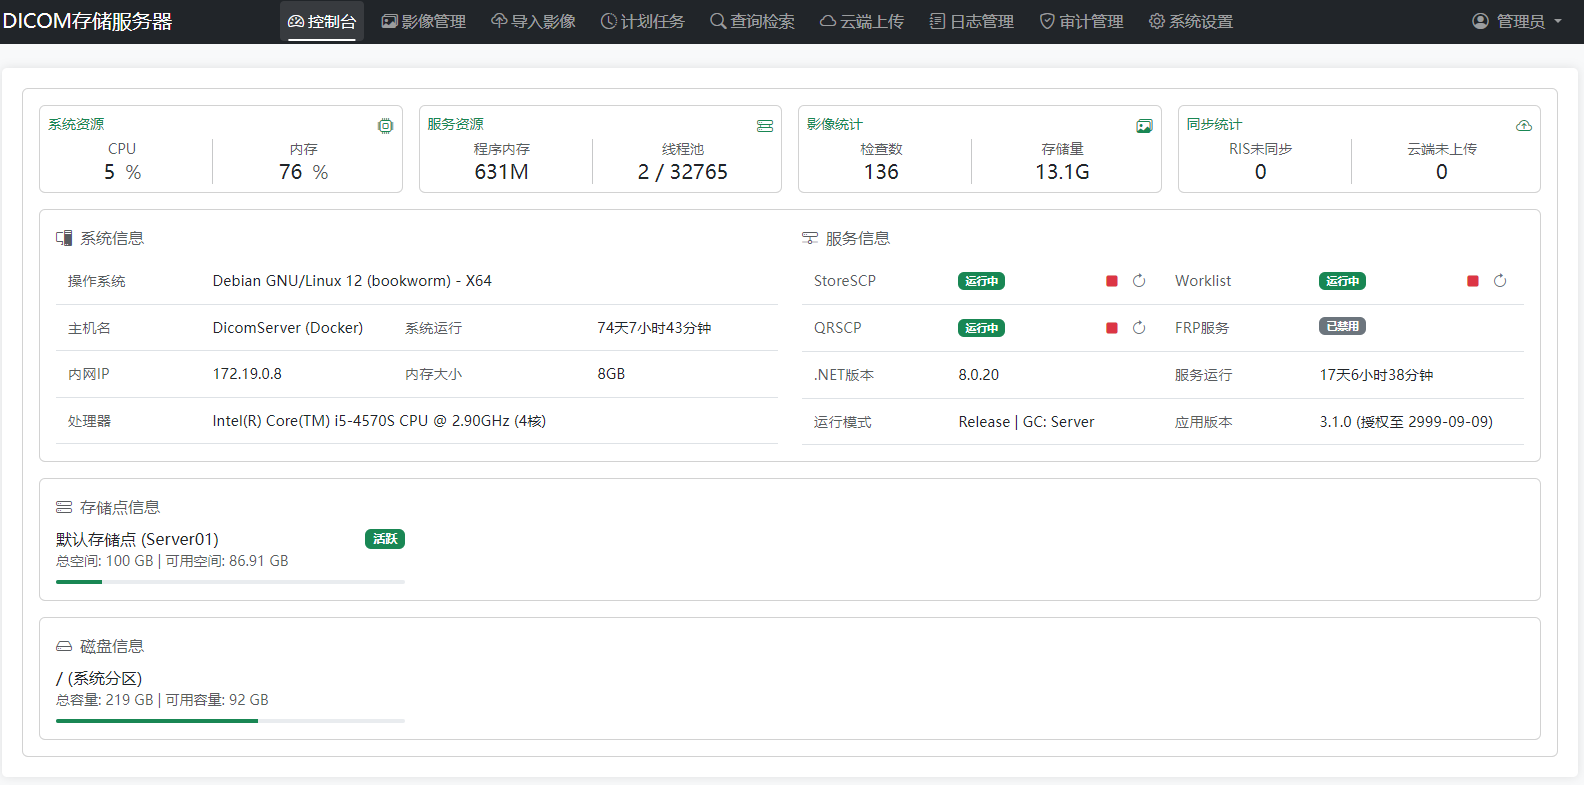
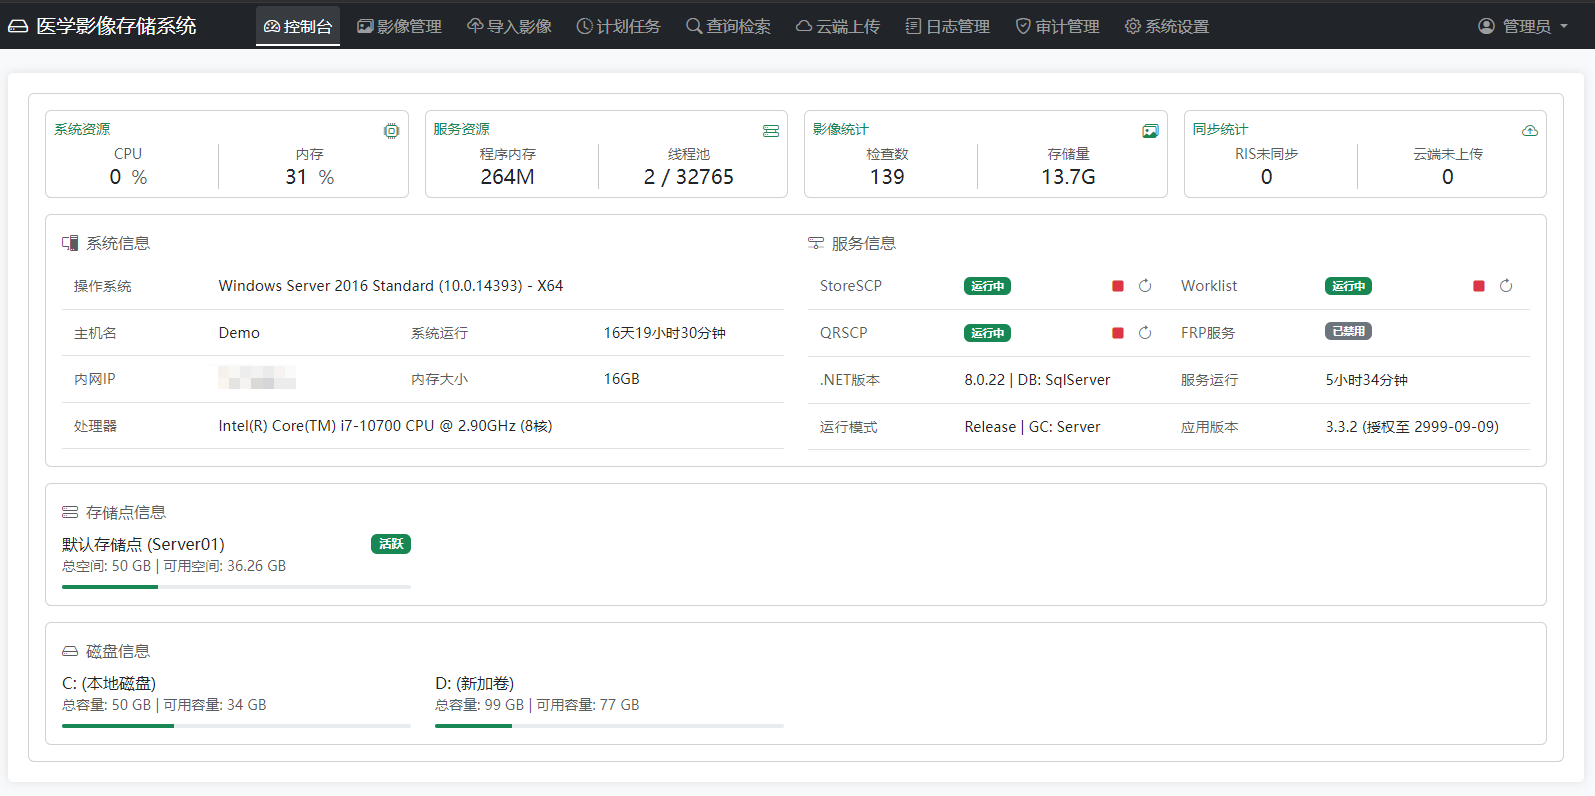
README.md 更新

diff --git a/README.md b/README.md
@@ -7,17 +7,14 @@
 - PS:商业版是云RIS/PACS整体解决方案。开源的DicomSCP是一个完成度比较高的DICOM服务管理系统，可以理解它是解决方案里面一个服务组件。
 - 团队亦承接医院相关系统的定制开发和接口对接改造，有需求也可联系。
 - [项目Gitee仓库](https://gitee.com/fightroad/DicomSCP)  |  [项目GitHub仓库](https://github.com/fightroad/DicomSCP) 
-- 相关配套中台系统：[dicom-acquisition](https://gitee.com/fightroad/dicom-acquisition) | [dicom-server](https://gitee.com/fightroad/dicom-server) | [data-integration-engine](https://gitee.com/fightroad/data-integration-engine)
+- 相关配套系统：[dicom-acquisition](https://gitee.com/fightroad/dicom-acquisition) | [dicom-server](https://gitee.com/fightroad/dicom-server) | [data-integration-engine](https://gitee.com/fightroad/data-integration-engine)
 - 测试工具（用于联调与传输测试）：[pacs-explorer](https://gitee.com/fightroad/pacs-explorer) | [mini-scu](https://gitee.com/fightroad/mini-scu) | [DicomTransfer](https://gitee.com/fightroad/DicomTransfer) | [DicomStoreScp](https://gitee.com/fightroad/DicomStoreScp) | [DicomProxy_Viewer](https://gitee.com/fightroad/DicomProxy_Viewer)
 
-## 整体解决方案部分功能预览
-![后台管理](about/后台管理.png)
+## 整体商业解决方案部分预览
 ![商业ris](about/商业报告.png)
 ![Risreport](about/risreport.png)
-![CloudFilm](about/cloudfilm.png)
 ![viewer](about/report.png) ![viewer](about/mobileviewer.png)
-![Dicomserver](about/DicomServer.png)
-
+![DicomServer](about/DicomServer.png)
 
 ## 赞助项目
 